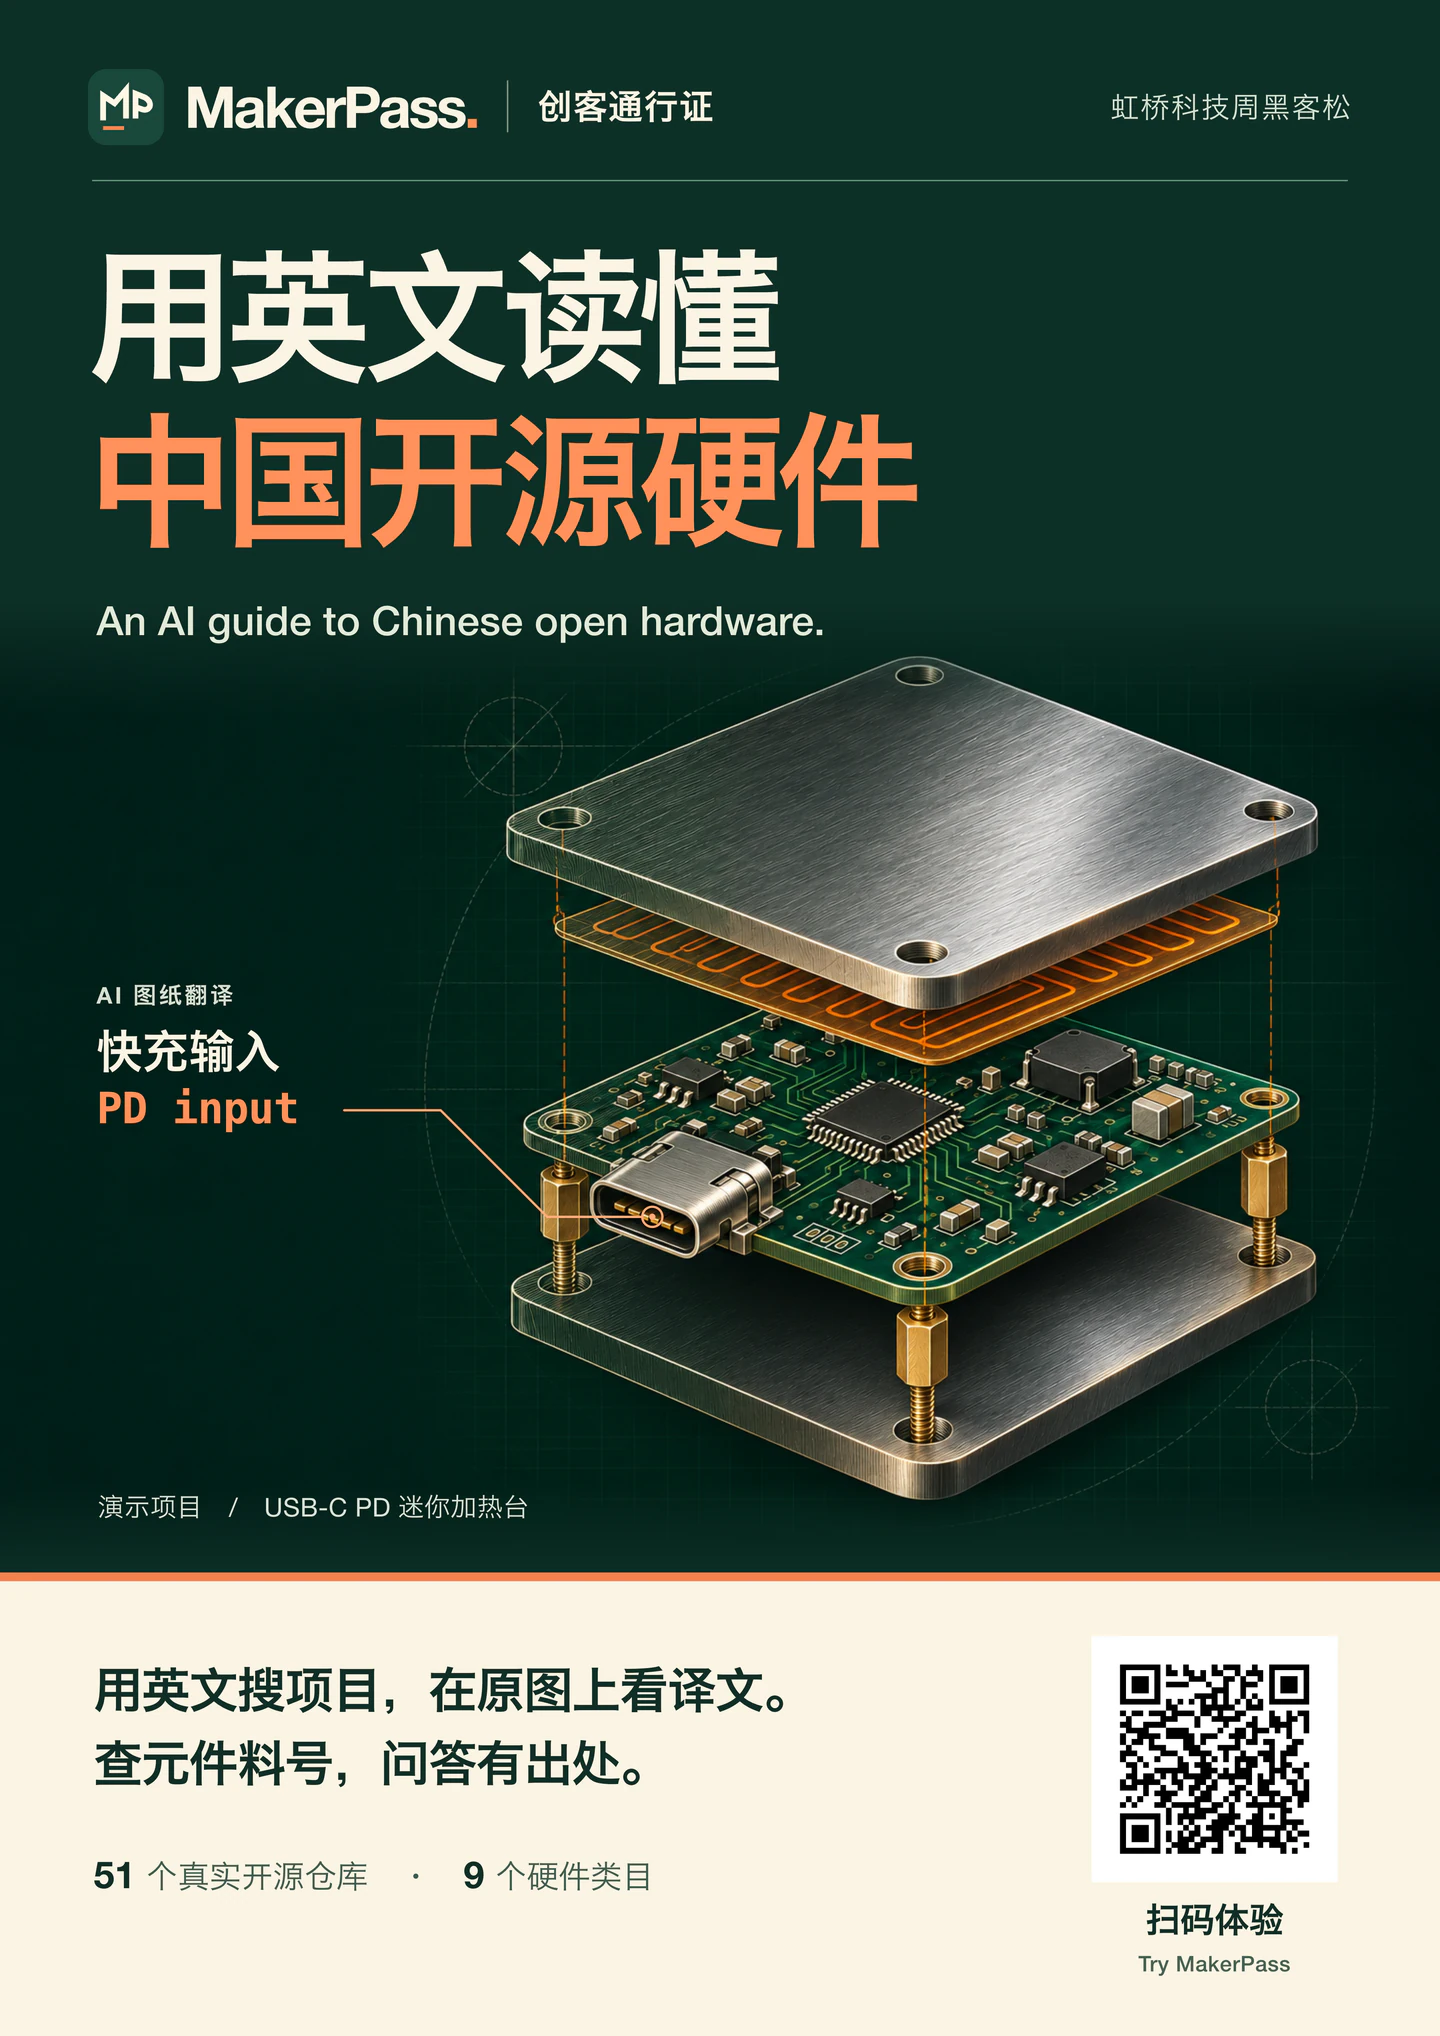
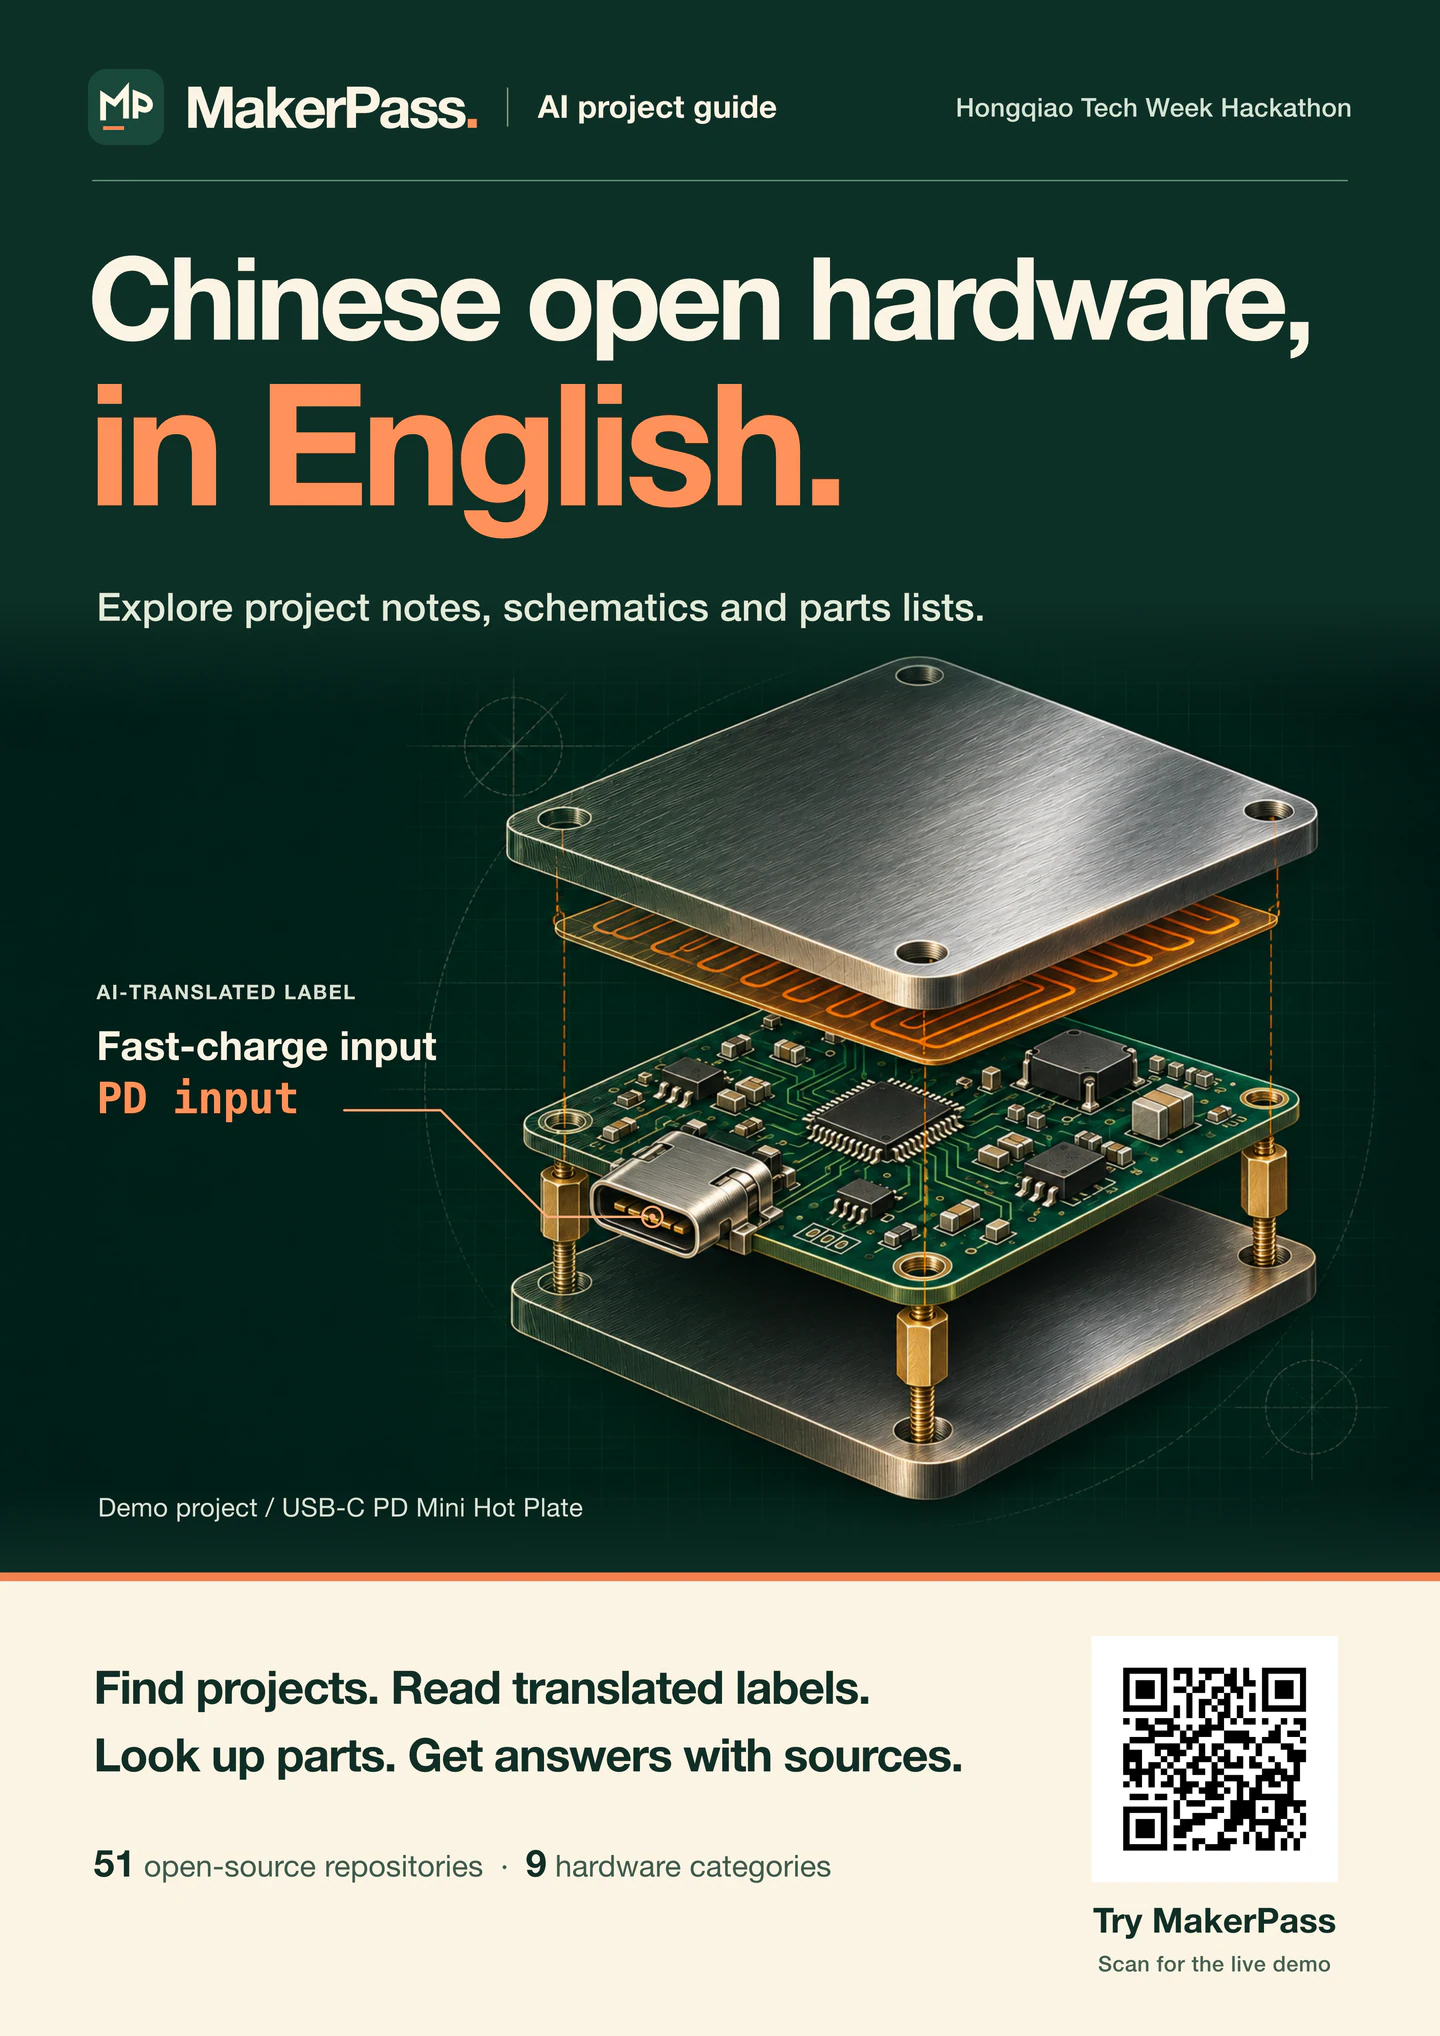
Publish the English poster and landing page

diff --git a/index.html b/index.html
@@ -1,19 +1,19 @@
 <!doctype html>
-<html lang="zh-CN">
+<html lang="en">
 <head>
   <meta charset="utf-8">
   <meta name="viewport" content="width=device-width, initial-scale=1">
   <meta name="theme-color" content="#10362c">
-  <meta name="description" content="MakerPass 创客通行证宣传海报。下载高清原图，或在线体验跨语言硬件项目搜索、图纸翻译和带出处的问答。">
-  <meta property="og:title" content="MakerPass 创客通行证">
-  <meta property="og:description" content="用英文读懂中国开源硬件 · 海报与在线体验">
+  <meta name="description" content="Read Chinese open hardware in English. View the MakerPass poster, download the A3 print edition, or try the live demo.">
+  <meta property="og:title" content="MakerPass | Chinese open hardware in English">
+  <meta property="og:description" content="Find Chinese open hardware projects, read translated schematic labels, look up parts and get answers with sources.">
   <meta property="og:type" content="website">
   <meta property="og:image" content="https://sean145238-bit.github.io/makerpass-poster/preview.webp">
-  <meta property="og:image:alt" content="MakerPass 宣传海报，示例加热台的快充输入标注翻译为 PD input。">
-  <title>MakerPass 创客通行证 · 海报</title>
+  <meta property="og:image:alt" content="MakerPass poster with an exploded hot plate and an English label identifying its USB-C Power Delivery input.">
+  <title>MakerPass | Official poster</title>
   <style>
     * { box-sizing: border-box; }
-    body { margin: 0; background: #eeeadd; color: #12372d; font-family: "Helvetica Neue", "PingFang SC", "Microsoft YaHei", sans-serif; }
+    body { margin: 0; background: #eeeadd; color: #12372d; font-family: "Helvetica Neue", Arial, sans-serif; }
     header { border-bottom: 1px solid #c7cbbd; background: #faf6eb; }
     .bar { display: flex; align-items: center; justify-content: space-between; flex-wrap: wrap; gap: .9rem 2rem; max-width: 58rem; margin: auto; padding: 1rem clamp(1rem, 4vw, 2rem); }
     h1 { margin: 0; font-size: clamp(1.1rem, 3.5vw, 1.45rem); letter-spacing: -.02em; }
@@ -32,17 +32,17 @@
 <body>
   <header>
     <div class="bar">
-      <h1>MakerPass<span>.</span> 创客通行证</h1>
-      <nav aria-label="海报和产品">
-        <a href="./makerpass-poster.png" download="MakerPass-宣传海报.png">下载海报原图</a>
-        <a class="demo" href="https://www.modelscope.cn/studios/Sean145238/sean">在线体验 MakerPass ↗</a>
+      <h1>MakerPass<span>.</span></h1>
+      <nav aria-label="Poster and live demo">
+        <a href="./makerpass-poster.png" download="MakerPass-poster-A3.png">Download A3 poster</a>
+        <a class="demo" href="https://sean145238-sean.ms.show/">Try MakerPass ↗</a>
       </nav>
     </div>
   </header>
   <main>
     <picture>
       <source media="print" srcset="./makerpass-poster.png">
-      <img src="./preview.webp" width="1440" height="2036" fetchpriority="high" alt="MakerPass 创客通行证。用英文读懂中国开源硬件。海报用迷你加热台演示把快充输入译为 PD input。产品支持搜索、图纸翻译、查询元件料号及带出处的问答。">
+      <img src="./preview.webp" width="1440" height="2036" fetchpriority="high" alt="MakerPass helps makers read Chinese open hardware in English. The poster labels the USB-C Power Delivery input on a mini hot plate. Explore 51 open-source repositories across 9 hardware categories.">
     </picture>
   </main>
 </body>

diff --git a/README.md b/README.md
@@ -1,7 +1,7 @@
-# MakerPass 创客通行证
+# MakerPass
 
-用英文读懂中国开源硬件。MakerPass 帮助海外创客搜索中文项目、阅读图纸标注、查找元件料号，并核对构建问答的出处。
+**Chinese open hardware, in English.** MakerPass helps makers find projects, read translated schematic labels, look up component part numbers and check the sources behind build answers.
 
-[打开海报展示页](https://sean145238-bit.github.io/makerpass-poster/) · [下载 A3 原图（PNG，300 dpi）](./makerpass-poster.png) · [在魔搭体验 MakerPass](https://www.modelscope.cn/studios/Sean145238/sean)
+[View the poster](https://sean145238-bit.github.io/makerpass-poster/) · [Download the A3 poster (PNG, 300 dpi)](./makerpass-poster.png) · [Try the live demo](https://sean145238-sean.ms.show/)
 
-[![MakerPass 宣传海报](./preview.webp)](https://sean145238-bit.github.io/makerpass-poster/)
+[![MakerPass poster showing the USB-C Power Delivery input on a mini hot plate](./preview.webp)](https://sean145238-bit.github.io/makerpass-poster/)
